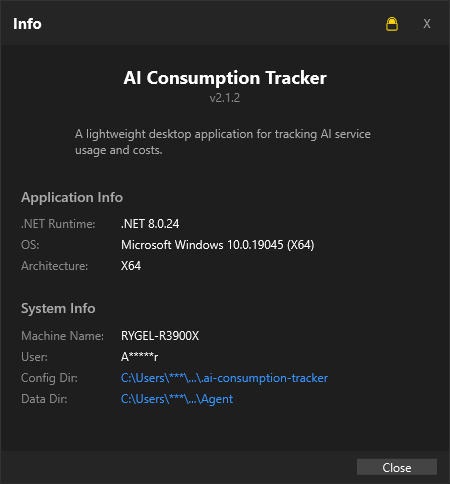
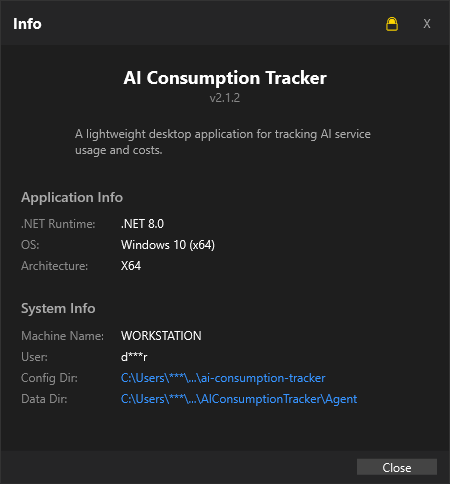
ci: add screenshot baseline diff gate
- add verify_screenshot_baseline.ps1 and run it in test workflow
- make headless screenshot rendering deterministic for dashboard/settings/info
- update committed screenshot baselines for deterministic output

diff --git a/AIConsumptionTracker.UI.Slim/SettingsWindow.xaml.cs b/AIConsumptionTracker.UI.Slim/SettingsWindow.xaml.cs
@@ -55,16 +55,24 @@ public partial class SettingsWindow : Window
         RefreshDiagnosticsLog();
     }
 
-    internal async Task PrepareForHeadlessScreenshotAsync()
+    internal async Task PrepareForHeadlessScreenshotAsync(bool deterministic = false)
     {
-        await LoadDataAsync();
+        if (deterministic)
+        {
+            PrepareDeterministicScreenshotData();
+        }
+        else
+        {
+            await LoadDataAsync();
+        }
+
         await Dispatcher.InvokeAsync(() => { }, DispatcherPriority.ApplicationIdle);
         UpdateLayout();
     }
 
     internal async Task<IReadOnlyList<string>> CaptureHeadlessTabScreenshotsAsync(string outputDirectory)
     {
-        await PrepareForHeadlessScreenshotAsync();
+        await PrepareForHeadlessScreenshotAsync(deterministic: true);
 
         var capturedFiles = new List<string>();
         if (MainTabControl.Items.Count == 0)
@@ -97,6 +105,138 @@ public partial class SettingsWindow : Window
         capturedFiles.Add(legacyName);
 
         return capturedFiles;
+    }
+
+    private void PrepareDeterministicScreenshotData()
+    {
+        _preferences = new AppPreferences
+        {
+            AlwaysOnTop = true,
+            InvertProgressBar = true,
+            InvertCalculations = false,
+            ColorThresholdYellow = 60,
+            ColorThresholdRed = 80,
+            FontFamily = "Segoe UI",
+            FontSize = 12,
+            FontBold = false,
+            FontItalic = false,
+            IsPrivacyMode = true
+        };
+
+        App.Preferences = _preferences;
+        _isPrivacyMode = true;
+        App.SetPrivacyMode(true);
+        UpdatePrivacyButtonState();
+
+        _configs = new List<ProviderConfig>
+        {
+            new()
+            {
+                ProviderId = "github-copilot",
+                ApiKey = "ghp_demo_key",
+                ShowInTray = true,
+                EnableNotifications = true,
+                PlanType = PlanType.Coding,
+                Type = "quota-based"
+            },
+            new()
+            {
+                ProviderId = "openai",
+                ApiKey = "sk-demo-key",
+                ShowInTray = true,
+                EnableNotifications = false,
+                PlanType = PlanType.Usage,
+                Type = "pay-as-you-go"
+            },
+            new()
+            {
+                ProviderId = "antigravity",
+                ApiKey = "local-session",
+                ShowInTray = false,
+                EnableNotifications = false,
+                PlanType = PlanType.Coding,
+                Type = "quota-based"
+            }
+        };
+
+        _usages = new List<ProviderUsage>
+        {
+            new()
+            {
+                ProviderId = "github-copilot",
+                ProviderName = "GitHub Copilot",
+                IsAvailable = true,
+                IsQuotaBased = true,
+                PlanType = PlanType.Coding,
+                RequestsPercentage = 72.5,
+                Description = "72.5% Remaining",
+                AccountName = "dev@example.com"
+            },
+            new()
+            {
+                ProviderId = "openai",
+                ProviderName = "OpenAI",
+                IsAvailable = true,
+                IsQuotaBased = false,
+                PlanType = PlanType.Usage,
+                RequestsPercentage = 31.1,
+                Description = "$12.45 / $40.00",
+                AccountName = "project-team"
+            },
+            new()
+            {
+                ProviderId = "antigravity",
+                ProviderName = "Antigravity",
+                IsAvailable = true,
+                IsQuotaBased = true,
+                PlanType = PlanType.Coding,
+                RequestsPercentage = 55.0,
+                Description = "55.0% Remaining"
+            }
+        };
+
+        PopulateProviders();
+        PopulateLayoutSettings();
+
+        HistoryDataGrid.ItemsSource = new[]
+        {
+            new
+            {
+                ProviderName = "GitHub Copilot",
+                UsagePercentage = 27.5,
+                Used = 27.5,
+                Limit = 100.0,
+                PlanType = "Coding",
+                Description = "72.5% Remaining",
+                FetchedAt = new DateTime(2026, 2, 1, 12, 0, 0)
+            },
+            new
+            {
+                ProviderName = "OpenAI",
+                UsagePercentage = 31.1,
+                Used = 12.45,
+                Limit = 40.0,
+                PlanType = "Usage",
+                Description = "$12.45 / $40.00",
+                FetchedAt = new DateTime(2026, 2, 1, 12, 5, 0)
+            }
+        };
+
+        if (AgentStatusText != null)
+        {
+            AgentStatusText.Text = "Running";
+        }
+
+        if (AgentPortText != null)
+        {
+            AgentPortText.Text = "5000";
+        }
+
+        if (AgentLogsText != null)
+        {
+            AgentLogsText.Text = "Agent health check: OK" + Environment.NewLine +
+                                 "Diagnostics available in Settings > Agent.";
+        }
     }
 
     private static string BuildTabSlug(string? header, int index)

diff --git a/AIConsumptionTracker.UI.Slim/MainWindow.xaml.cs b/AIConsumptionTracker.UI.Slim/MainWindow.xaml.cs
@@ -358,9 +358,83 @@ public partial class MainWindow : Window
         EnsureAlwaysOnTop();
     }
 
-    internal async Task PrepareForHeadlessScreenshotAsync()
+    internal async Task PrepareForHeadlessScreenshotAsync(bool deterministic = false)
     {
-        await InitializeAsync();
+        if (deterministic)
+        {
+            _preferences = new AppPreferences
+            {
+                AlwaysOnTop = true,
+                InvertProgressBar = true,
+                InvertCalculations = false,
+                ColorThresholdYellow = 60,
+                ColorThresholdRed = 80,
+                FontFamily = "Segoe UI",
+                FontSize = 12,
+                FontBold = false,
+                FontItalic = false,
+                IsPrivacyMode = true
+            };
+
+            App.Preferences = _preferences;
+            _isPrivacyMode = true;
+            App.SetPrivacyMode(true);
+            _preferencesLoaded = true;
+            _lastAgentUpdate = new DateTime(2026, 2, 1, 12, 0, 0, DateTimeKind.Local);
+            ApplyPreferences();
+
+            _usages = new List<ProviderUsage>
+            {
+                new()
+                {
+                    ProviderId = "github-copilot",
+                    ProviderName = "GitHub Copilot",
+                    IsQuotaBased = true,
+                    PlanType = PlanType.Coding,
+                    RequestsPercentage = 72.5,
+                    RequestsUsed = 27.5,
+                    RequestsAvailable = 100,
+                    Description = "72.5% Remaining",
+                    IsAvailable = true,
+                    AccountName = "dev@example.com",
+                    AuthSource = "oauth"
+                },
+                new()
+                {
+                    ProviderId = "antigravity.claude-sonnet-4",
+                    ProviderName = "Claude Sonnet 4 [Antigravity]",
+                    IsQuotaBased = true,
+                    PlanType = PlanType.Coding,
+                    RequestsPercentage = 55.0,
+                    RequestsUsed = 45.0,
+                    RequestsAvailable = 100,
+                    Description = "55.0% Remaining",
+                    IsAvailable = true,
+                    AuthSource = "local app"
+                },
+                new()
+                {
+                    ProviderId = "openai",
+                    ProviderName = "OpenAI",
+                    IsQuotaBased = false,
+                    PlanType = PlanType.Usage,
+                    RequestsPercentage = 31.1,
+                    RequestsUsed = 12.45,
+                    RequestsAvailable = 40.00,
+                    Description = "$12.45 / $40.00",
+                    IsAvailable = true,
+                    AuthSource = "api key"
+                }
+            };
+
+            RenderProviders();
+            ShowStatus("Headless snapshot", StatusType.Success);
+        }
+        else
+        {
+            await InitializeAsync();
+        }
+
         await Dispatcher.InvokeAsync(() => { }, DispatcherPriority.ApplicationIdle);
         UpdateLayout();
     }

diff --git a/AIConsumptionTracker.UI.Slim/App.xaml.cs b/AIConsumptionTracker.UI.Slim/App.xaml.cs
@@ -73,7 +73,19 @@ public partial class App : Application
     {
         try
         {
-            await LoadPreferencesAsync();
+            Preferences = new AppPreferences
+            {
+                AlwaysOnTop = true,
+                InvertProgressBar = true,
+                InvertCalculations = false,
+                ColorThresholdYellow = 60,
+                ColorThresholdRed = 80,
+                FontFamily = "Segoe UI",
+                FontSize = 12,
+                FontBold = false,
+                FontItalic = false,
+                IsPrivacyMode = true
+            };
             SetPrivacyMode(true);
 
             var screenshotsDir = ResolveScreenshotsDirectory();
@@ -181,7 +193,7 @@ public partial class App : Application
         var window = new MainWindow();
         try
         {
-            await window.PrepareForHeadlessScreenshotAsync();
+            await window.PrepareForHeadlessScreenshotAsync(deterministic: true);
             await window.Dispatcher.InvokeAsync(() => { }, DispatcherPriority.ApplicationIdle);
             RenderWindowContent(window, outputPath);
         }
@@ -209,6 +221,7 @@ public partial class App : Application
         var window = new InfoDialog();
         try
         {
+            window.PrepareForHeadlessScreenshot();
             window.UpdateLayout();
             RenderWindowContent(window, outputPath);
         }

diff --git a/AIConsumptionTracker.UI.Slim/InfoDialog.xaml.cs b/AIConsumptionTracker.UI.Slim/InfoDialog.xaml.cs
@@ -107,6 +107,21 @@ namespace AIConsumptionTracker.UI.Slim
             return Path.Combine("C:\\Users\\***\\...", filename);
         }
 
+        internal void PrepareForHeadlessScreenshot()
+        {
+            _isPrivacyMode = true;
+
+            InternalVersionText.Text = "v2.1.2";
+            DotNetVersionText.Text = ".NET 8.0";
+            OsVersionText.Text = "Windows 10 (x64)";
+            ArchitectureText.Text = "X64";
+            MachineNameText.Text = "WORKSTATION";
+            UserNameText.Text = "d***r";
+            ConfigDirText.Text = @"C:\Users\***\...\ai-consumption-tracker";
+            DataDirText.Text = @"C:\Users\***\...\AIConsumptionTracker\Agent";
+            PrivacyBtn.Foreground = Brushes.Gold;
+        }
+
         private async void PrivacyBtn_Click(object sender, RoutedEventArgs e) => await PrivacyBtn_ClickAsync(sender, e);
 
         internal async Task PrivacyBtn_ClickAsync(object sender, RoutedEventArgs e)
